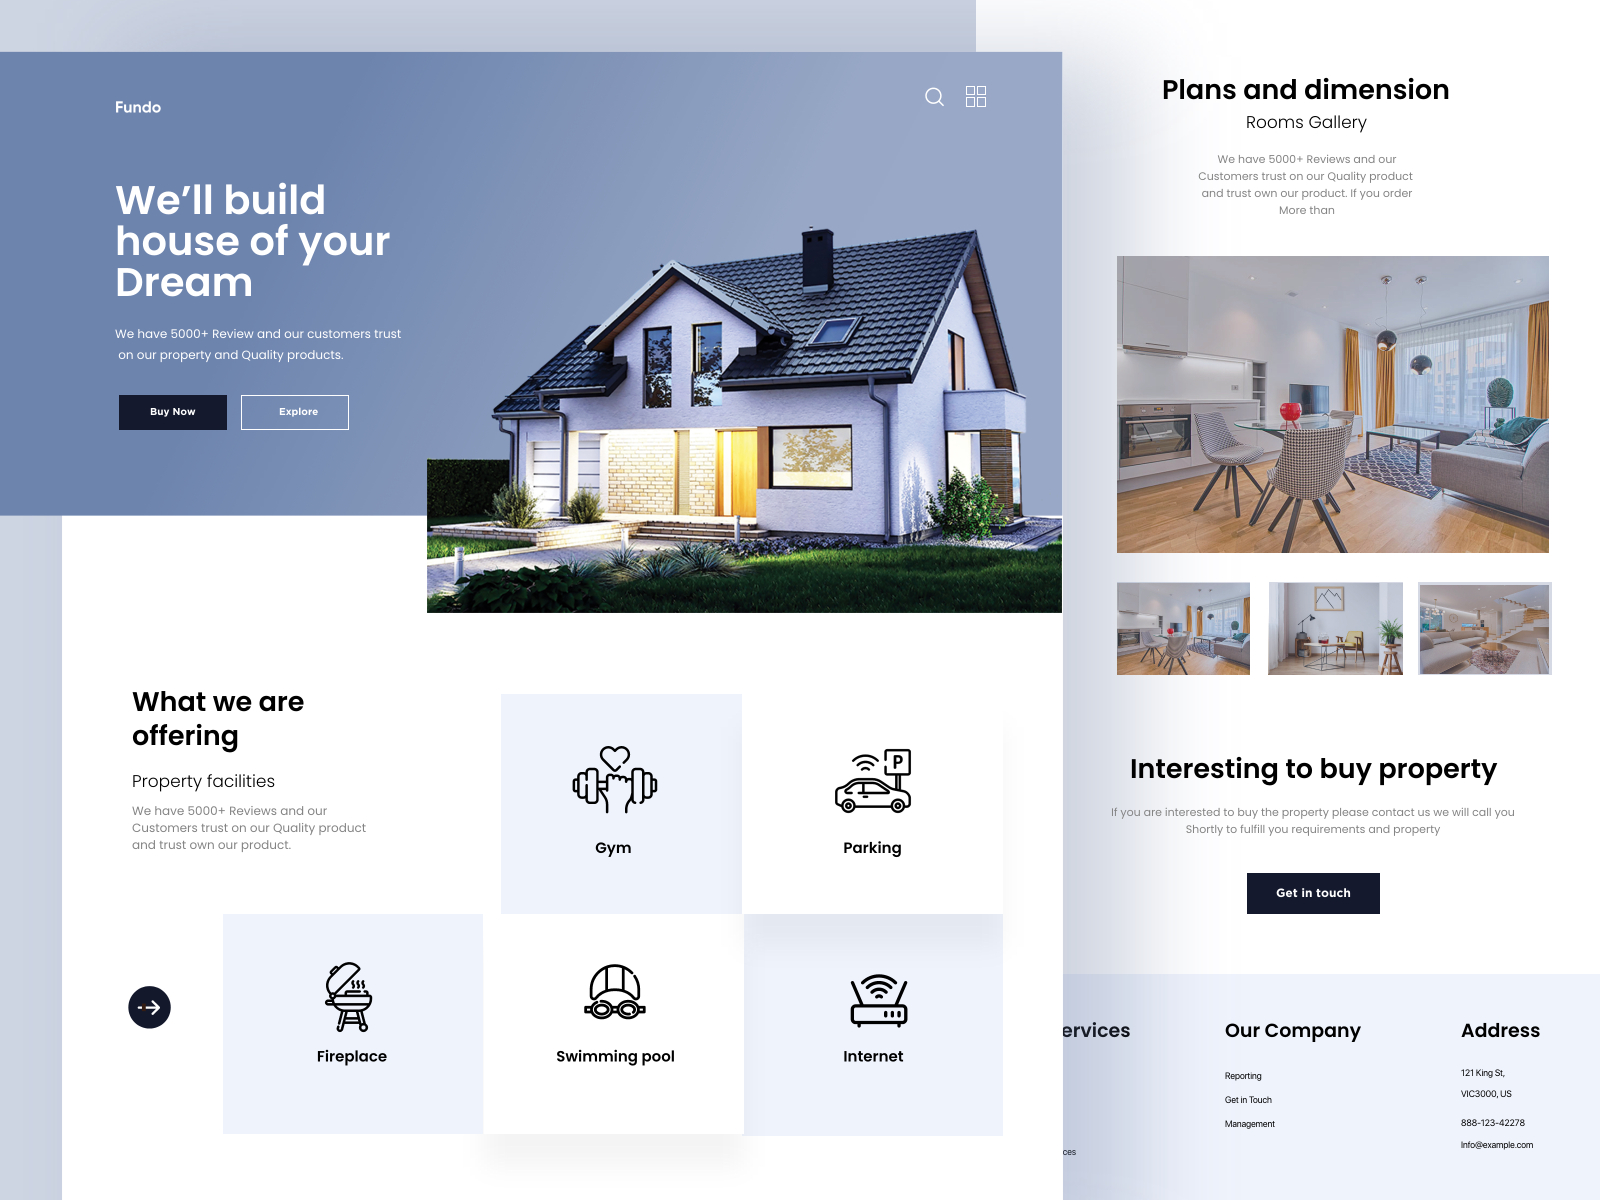
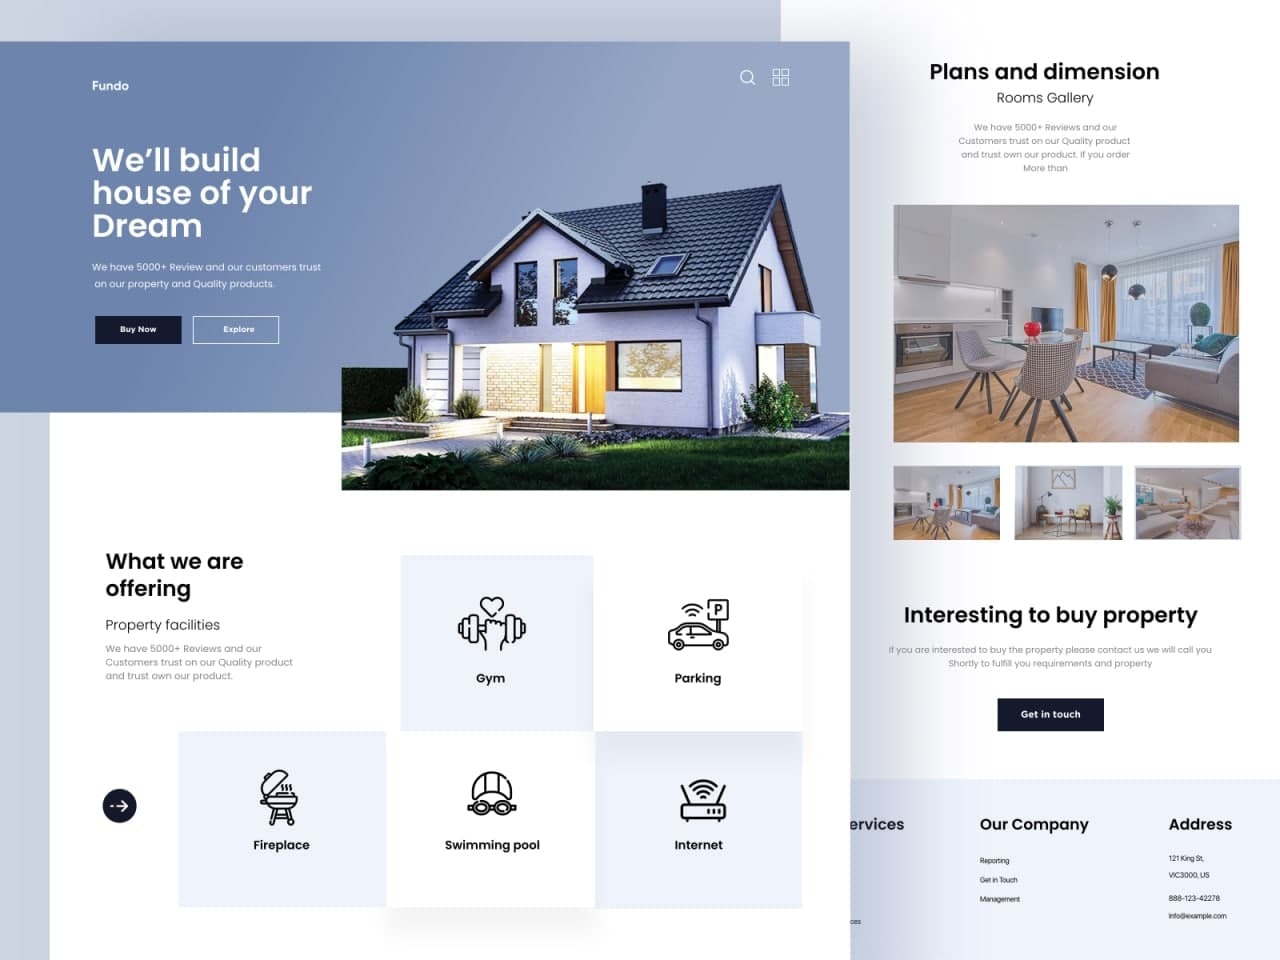
New update

Changed region(s): [[0.4375, 0.375, 0.4688, 0.4375], [0.5938, 0.4062, 0.625, 0.4375]]

diff --git a/style-3.css b/style-3.css
@@ -2,7 +2,7 @@
 
 /*=============== VARIABLES CSS ===============*/
 :root {
-  --header-height: 3.5rem; /*56px*/
+  --header-height: 4.5rem; /*56px*/
   
   /*========== Colors ==========*/
   --radius: 0.5rem;
@@ -90,16 +90,15 @@ section{
 /*=========================Home========================*/
 
 .home{
-    width: 100%;
-    height: 93vh;
-    display: flex;
-    align-items: center;
-    justify-content: center;
+  height: 95vh;
+  display: flex;
+  justify-content: center;
+  
 }
 
 /*=========================Nav Menu========================*/
 .nav{
-    height: calc(var(--header-height) + 1rem);
+    height: var(--header-height);
     width: 100%;
     background: var(--main-color);
     display: flex;
@@ -109,8 +108,8 @@ section{
     top: 0;
     left: 0;
     z-index: var(--z-fixed);
+    padding: 0rem 1rem;
 }
-
 
 .nav__logo{
   font-size: var(--para-font);
@@ -155,9 +154,7 @@ section{
     color: var(--para-lightest);;
   }
 
-
   /*--------Hamburger Icon--------*/
-
 
   .nav-trigger {
     padding: 20px 30px;
@@ -281,7 +278,7 @@ section{
 
  /*=========================Hero section========================*/
  .hero{
-    height: 90vh;
+    height: 80vh;
     width: 90vw;
     max-width: 1170px;
     display: flex;
@@ -289,7 +286,6 @@ section{
     justify-content: space-around;
     flex-wrap: wrap-reverse;
  }
-
 
  .hero-content{
   width: min(500px, 90vw);
@@ -381,21 +377,20 @@ section{
     display: block;
   }
 
-  .nav{
-    height: calc(var(--header-height));
-    display: flex;
-    justify-content: space-between;
-    padding: 1rem;
-  }
+.nav{
+  height: calc(var(--header-height) - 1rem);
+  display: flex;
+  justify-content: space-between;
+}
 
-  .nav__list{
-    display: flex;
-    flex-direction: column;
-    align-items: center;
-    justify-content: center;
-    height: 100%;
-    width: 100%;
-  }
+.nav__list{
+  display: flex;
+  flex-direction: column;
+  align-items: center;
+  justify-content: center;
+  height: 100%;
+  width: 100%;
+}
 
   .nav__item{
     margin: 1.5rem;
@@ -451,10 +446,6 @@ section .skill{
   
 }
 
-.skill .set:hover{
-  /* box-shadow: 0px 12px 16px #112240; */
-  
-}
 
 .set span{
  
@@ -467,22 +458,10 @@ section .skill{
   /* background-color: var(--primary-color); */
   color: var(--primary-color);
   border-radius: var(--radius);
-  margin-inline: auto;
+  margin: 0 auto;
   
 }
 
-.icon{
-  display: flex;
-  justify-content: center;
-  align-items: center;
-  width: 80px;
-  height: 80px;
-  font-size: 48px;
-  color: var(--primary-color);
-  border-radius: var(--radius);
-   border: 1px solid red;
-   margin: 0 auto;
-}
 
 .skill .set:nth-child(2) span{
   font-size: 60px;
@@ -500,13 +479,12 @@ section .skill{
 }
 
 .set .list{
-  padding-block: 8px;
-  /* display: grid;
-  grid-template-columns: 1fr 28px; */
+
   display: flex;
   justify-content: space-between;
   color: var(--para-color);
   text-transform: uppercase;
+  margin: 1rem 0rem;
 }
 
 .set:hover .list{
@@ -878,7 +856,7 @@ section .skill{
   background-color: transparent;
   text-align: left;
   font-size: var(--para-font);
-  font-weight: 300;
+  font-weight: 500;
   letter-spacing: 0.7px;
   background-color: var(--nav-color);
   margin-top: 1rem;
@@ -1046,9 +1024,6 @@ section .skill{
 }
 
 
-.footer{
-  padding: 0 1rem;
-}
 
 
 .footer p{

diff --git a/index.html b/index.html
@@ -66,8 +66,7 @@
     </header>
     <div class="skill">
         <div class="set">
-            <!-- <span class="icon-Frontend"></span> -->
-            <div class="icon-Frontend icon"></div>
+            <span class="icon-Frontend"></span>
             <header>Frontend</header>
 
             <div class="list">
@@ -209,7 +208,7 @@
 
         <a href="#">
             <div class="projects-img">
-                <img src="img/project-3.png" alt="">
+                <img src="img/project-3.jpg" alt="">
             </div>
         </a>
 
@@ -371,9 +370,28 @@
 
     <div class="faq-container">
       <div class="accordion-item">
+        <button class="opened">
+          <span class="accordion-title">
+            Do you need logo, images and website content/copywriting etc to build my website?
+            
+          </span>
+          <i class="icon-Plus"></i>
+          <i class="icon-Minus"></i>
+        </button>
+        <p class="accordion-detail">
+
+            Yes! If you have your logo and website images ready then send me.
+            Or I can come up with basic logo and images too.
+            <br>
+            <br>
+            But you have to provide copywriting for your website if its a complex project.
+        </p>
+      </div>
+
+      <div class="accordion-item">
         <button>
           <span class="accordion-title">
-            Do you need PSD, XD, PNG file or any reference website to start working?
+            Do you need any reference website to start working?
           </span>
           <i class="icon-Plus"></i>
           <i class="icon-Minus"></i>
@@ -384,23 +402,6 @@
             <br />
             <br />
             Or I can come up with my own design too if you don't have any idea.
-        </p>
-      </div>
-
-      <div class="accordion-item">
-        <button class="opened">
-          <span class="accordion-title">
-            Do you need logo, images and website content/copywriting etc to build my website?
-          </span>
-          <i class="icon-Plus"></i>
-          <i class="icon-Minus"></i>
-        </button>
-        <p class="accordion-detail">
-            Yes! If you have your logo and website images ready then send me.
-            Or I can come up with basic logo and images too.
-            <br>
-            <br>
-            But you have to provide copywriting for your website if its a complex project.
         </p>
       </div>
 
